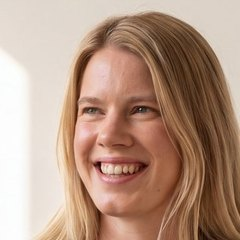
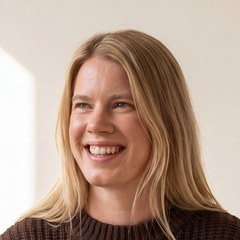
v2: better hero face crop

diff --git a/v2/index.html b/v2/index.html
@@ -347,7 +347,7 @@ footer{padding:40px 0 32px}
       <a class="btn solid" href="#how">See the difference</a>
       <a class="btn ghost" href="#start">Get your site reviewed</a>
     </div>
-    <div class="hero-me"><img src="assets/mel-face.jpg?v=1" alt="Mel Cox" width="48" height="48"><p><b>Mel Cox.</b> Twenty years in hospitality, three cafés owned. You deal with me, not an account manager.</p></div>
+    <div class="hero-me"><img src="assets/mel-face.jpg?v=2" alt="Mel Cox" width="48" height="48"><p><b>Mel Cox.</b> Twenty years in hospitality, three cafés owned. You deal with me, not an account manager.</p></div>
   </div>
   <picture>
     <source media="(max-width:700px)" srcset="assets/hero-mobile.jpg?v=20260927f">
